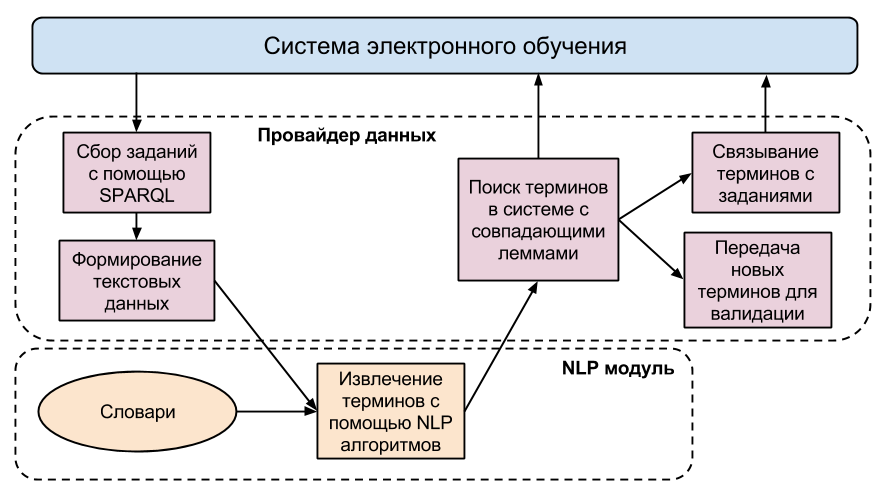
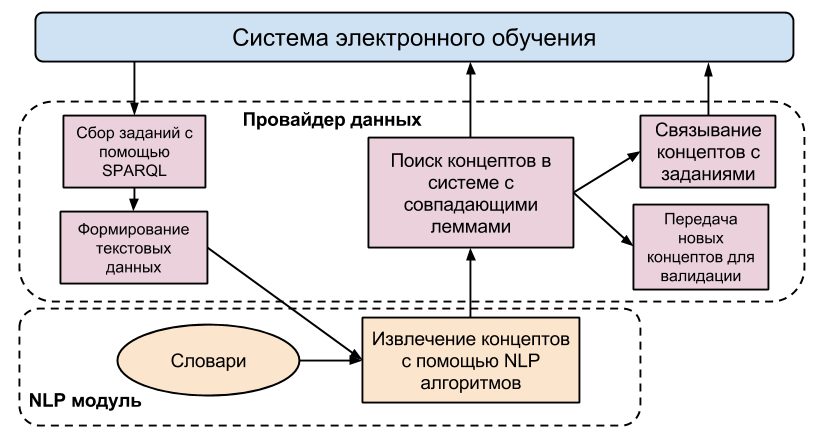
[+] part3 agregation. Done

Changed region(s): [[0.0, 0.0, 0.9964, 0.9706], [0.0, 0.2647, 0.0302, 0.6471]]

diff --git a/part3.tex b/part3.tex
@@ -1,54 +1,57 @@
-\chapter{Разработка методик наполнения и анализа образовательных данных в системе дистанционного обучения} \label{chapt3}
+\chapter{Разработка методик наполнения и анализа образовательных данных в системе электронного обучения} \label{chapt3}
 
 
 \section{Метод интеграции учебных материалов из сторонних источников семантических данных} 
 \label{sect3_1}
 
-Технологии Semantic Web и Linked Data позволяют использовать онтологии для хранения, сбора и распространения данных. Одним из преимуществ данных технологий является повторное использование данных. В Интернете существует множество открытых источников с данными, при описании которых были использованы онтологии верхнего уровня. Данные источники могут быть использованы для наполнения системы дистанционного обучения. Автоматизация и разработка методов наполнения онтологий является одной из главных задач в реализации механизмов поддержки учебных материалов в актуальном состоянии в системе дистанционного обучения.
+Технологии Semantic Web и Linked Data позволяют использовать онтологии для хранения, сбора и распространения данных. Одним из преимуществ данных технологий является повторное использование данных. В Интернете существует множество открытых источников с данными, при описании которых были использованы онтологии верхнего уровня. Данные источники могут быть использованы для наполнения системы электронного обучения. Автоматизация и разработка методов наполнения онтологий является одной из главных задач в реализации механизмов поддержки учебных материалов в актуальном состоянии в системе электронного обучения.
 
-Для сбора данных в формате RDF в системе ECOLE используются провайдеры данных. Провайдеры данных поддерживают автоматическое обновление связных данных из сторонних источников. Провайдеры позволяют преобразовывать структурированные данных различных форматов в формат RDF. Каждый провайдер обладает своим контекстом для дальнейшего управления собранными данными. 
+В разработанном методе для сбора данных в формате RDF в системе электронного обучения используются провайдеры данных. Провайдеры данных - это программные автономные модули, поддерживающие  автоматическое обновление связных данных хранилища системы из сторонних источников. Провайдеры позволяют преобразовывать структурированные данных различных форматов в формат RDF. Каждый провайдер обладает своим контекстом для дальнейшего управления собранными данными. Система электронного обучения использует связанные данные из хранилища для предоставления пользователям учебных материалов.
 
-С помощью провайдеров данных система ECOLE наполняет онтологии учебных материалов и тестов. Система производит сбор данных из электронных библиотек. Одной из таких библиотек является The British National Bibliography(BNB). BNB предоставляет открытый доступ к библиографической информации в формате RDF. Библиографические данные описываются с помощью онтологии верхнего уровня BIBO. Система ECOLE собирает информацию о книгах и публикациях из BNB и предоставляет возможность преподавателям связывать их курсы с объектами BNB используя свойство «hasResource».
+С помощью провайдеров данных система электронного обучения  наполняет онтологии учебных материалов и тестов. Система производит сбор данных из электронных библиотек. Одним из примеров использования разработанного метода является сбор данных системой электронного обучения из библиотеки The British National Bibliography(BNB). BNB предоставляет открытый доступ к библиографической информации в формате RDF. Библиографические данные описываются с помощью онтологии верхнего уровня BIBO и прочих опубликованных в сети прикладных онтологий. Система элеткронного обучения собирает информацию о книгах и публикациях из BNB и предоставляет возможность преподавателям и авторам  связывать электронные курсы с объектами BNB используя свойство <<hasResource>> онтологии учебных материалов.
 
-Система ECOLE позволяет задавать определения для предметных терминов. Одним из способов автоматизации наполнения онтологии терминов является использование внешней базы знаний. В системе ECOLE в качестве такой базы знаний используется DBpedia. DBpedia предоставляет точку доступа SPARQL для получения информации, которая была извлечена из Wikipedia. Провайдер данных автоматически создает определения для предметных терминов используя запросы к точке доступа SPARQL.
+С помощью разработанного метода система электронного обучения позволяет задавать определения для концептов предметных областей. Одним из способов автоматизации наполнения онтологии концептов и предметных областей является использование внешней базы знаний или таксономии. В качестве такой базы знаний в ситеме электронного обучения может быть использована база знаний DBpedia. DBpedia предоставляет точку доступа SPARQL для получения информации, которая была извлечена из Wikipedia. Провайдер данных автоматически создает определения для концептов предметной области используя запросы к точке доступа SPARQL. Для минимизации неоднозначности значения концептов при произведении запросов провайдером к точке доступа SPARQL в запросах используеться дополнительная фильтрация по категориям относящимся к предметной области концепта. 
 
-Множество источников в Интернете хранят структурированные данные не в формате RDF. Тесты и учебные материалы университета могут хранится в формате XML, а электронная библиотека предоставлять информацию о публикациях через REST API. Система ECOLE использует алгоритмы конвертации данных в провайдерах для интеграции структурированных данных в онтологии системы.
-
-
+Разработанный метод поддерживает ручное связывание концепта предметной области в системе электронного обучения с объектом базы знаний. Для этого у выбранного концепта создается свойство <<owl:saneAs>> с URI объекта внешней базы знаний. В дальнейшем провайдер автоматически подгружает актуальную информацию о концепте предметной области из внешних источников.
 
 
 \section{Метод преобразования структурированных учебных материалов в семантический формат} \label{sect3_2}
 
-%%%%%%%%%%%%%%%%%%%%%%%%%%%%%%%%%%%%%%%%%%%%%%%%%%
+Множество источников в Интернете хранят структурированные данные не в формате RDF. Тесты и учебные материалы университета могут хранится в формате XML, а электронная библиотека предоставлять информацию о публикациях через REST API. Разработанный метод агрегации данных в структурированных форматах предлагает использовать алгоритмы конвертации данных в провайдерах для интеграции структурированных данных в онтологии системы.
 
-%%%%%         TODO
+Портал учебных изданий Университета ИТМО предоставляет доступ к информации о публикациях используя точку доступа REST API. Разработанный метод использует предопределенные разработчиком Groovy скрипты при обработке данных в провайдере для преобразования данных из REST API в RDF триплеты. В ходе преобразования могут быть использованы внешние и внутренние словари и онтологии для аннотирования полученных данных. В примере с учебными изданиями может быть использованно аннотирование данных с помощью онтологии BIBO для сохранения информации о публикациях и книгах. 
 
-%%%%%%%%%%%%%%%%%%%%%%%%%%%%%%%%%%%%%%%%%%%%%%%%%%
+Другим распрастранненым методом хранения и передачи учебных материалов в электронных курсах является передача данных в формате XML. Для преобразования учебных материалов из XML формата в формат RDF необходимо описать отображение данных. Отображение описывается в формате XML в виде специальных правил задающих соотношение между данными в элементах и атрибутах XML и онтологическими индивидами и свойствами. Описанное отображение передается в провайдер, разработанный для обработки XML данных. Далее провайдер на основе описанного отображения и указаных внешних источников производит сбор и конвертацию в семантических формат учебных материалов в формате XML. Провайдер использует функции XPath для извлечения информации об объектах и их свойствах из XML данных. Извлеченная информация преобразовывается в RDF/XML формат и аннотируется с помощью установленных онтологий на основе описанного отображения. Аггрегация данных производится в автоматическом режиме с заданной периодичностью, что позволяет автоматически актуализировать учебные материалы.
+
+Одним из примеров применения данного метода является агрегация тестов электронных курсов из открытого хранилища учебных материалов ИТМО. Скрипт производит сбор и формирование XML файлов с тестами из открытого хранилища. Далее провайдер на основе описанного отображения преобразовывает и сохраняет данные в семантическое хранилище. В приложении \ref{APP_B_XML_MAP} описан пример отображения и результаты работы провайдера при преобразовании тестов в формате XML в семантических формат.
+
+Таким образом система электронного обучения с использованием семантических технологий может агрегировать и интегрировать книги, публикации, тесты и прочие учебные материалы опубликованные в структурированном формате на внешних источниках. Интеграция учебных материалов в систему электронного обучения основанную на семантических технологиях позволяет преподавателям и авторам использовать в своих электронных курсах готовые учебные материалы из сторонних источников.  
+
 
 \section{Использование алгоритмов обработки естественного языка для создания связей в онтологиях} \label{sect3_3}
 
-Для наполнения онтологий системы можно использовать не только данные внешних источников, но и данные самой системы. Данные хранящиеся в онтологии системы и связанные семантическими связями позволяют создавать новые связи на основе предопределенных правил. Одним из методов связывания данных онтологии является применение алгоритмов обработки естественного языка NLP (Natural Language Processing). Используя данный подход можно извлекать семантические связи из текстовой информации объекта онтологии. Система ECOLE использует NLP алгоритмы для поиска предметных терминов в текстах заданий тестов.
+Для наполнения онтологий системы можно использовать не только данные внешних источников, но и данные самой системы. Данные хранящиеся в онтологии системы и связанные семантическими связями позволяют создавать новые связи на основе предопределенных правил. Одним из методов связывания данных онтологии является применение алгоритмов обработки естественного языка NLP (Natural Language Processing). Используя данный подход можно извлекать семантические связи из текстовой информации объекта онтологии. Разработанный метод позволяет системам электронного обучения на основе семантических технологий, использовать NLP алгоритмы для поиска концепты предметных областей в текстах заданий тестов.
 
-Учитывая небольшой размер образца и предустановленный набор терминов,  шаблоны POS-tag в совместном использовании с синтаксическими шаблонами являются наиболее предпочтительным методом извлечения предметных терминов из заданий тестов[11][12][13]. Около десяти типичных составных шаблонов предметных терминов было использовано для извлечения терминов-кандидатов.  После извлечения термины-кандидаты приводились к канонической форме с использованием предустановленных словарей.
+Учитывая небольшой размер образца и предустановленный набор концептов, шаблоны POS-tag в совместном использовании с синтаксическими шаблонами являются наиболее предпочтительным методом извлечения концептов предметных областей из заданий тестов \cite{hulth2003improved} \cite{khokhlova2012lexico} \cite{bolsh2007lexico}. Около десяти типичных составных шаблонов концептов было использовано для извлечения концептов-кандидатов.  После извлечения концепты-кандидаты приводились к канонической форме с использованием предустановленных словарей.
 
-Для извлечения терминов была использована лингвистическая платформа NooJ[14]. NooJ обладает мощным механизмом регулярных выражений поиска, позволяющим комбинировать различные POS-tag шаблоны в единую грамматику для запроса к тексту. Для обработки русскоязычного текста авторами статьи был разработан набор грамматик и словарей. Данные словари и грамматики полностью покрывают словарь заданий теста. Для генерации словарей и грамматик для англоязычных ресурсов были использованы стандартные средства NooJ. Несколько деривационных парадигм было описано с помощью преобразователей NooJ и связано с лексическими сущностями. Применение деривационных парадигм позволяет генерировать основные леммы для лексических сущностей. Алгоритм извлечения предметных терминов из текста с использованием платформы NooJ состоит из следующих шагов:
+Для извлечения концептов предметных областей была использована лингвистическая платформа NooJ \cite{silberztein2002nooj}. NooJ обладает мощным механизмом регулярных выражений поиска, позволяющим комбинировать различные POS-tag шаблоны в единую грамматику для запроса к тексту. Для обработки русскоязычного текста был разработан набор грамматик и словарей. Данные словари и грамматики полностью покрывают словарь заданий теста. Для генерации словарей и грамматик для англоязычных ресурсов были использованы стандартные средства NooJ. Несколько деривационных парадигм было описано с помощью преобразователей NooJ и связано с лексическими сущностями. Применение деривационных парадигм позволяет генерировать основные леммы для лексических сущностей. Алгоритм извлечения концептов предметных областей из текста с использованием платформы NooJ состоит из следующих шагов:
 
 \begin{itemize}
 \item тест задания подгружается в платформу NooJ, что приводит к его лингвистическому анализу, используя разработанные словари;
 \item в результате анализа платформа NooJ формирует текст с аннотациями, содержащими морфологическую и семантическую информацию о каждом слове;
-\item применяя запросы на основе POS-tag шаблонов, платформа NooJ формирует список терминов-кандидатов.
+\item применяя запросы на основе POS-tag шаблонов, платформа NooJ формирует список концептов-кандидатов.
 \end{itemize}
 
-Для применения алгоритма в других предметных областях и на других языках необходимо сформировать соответствующие словари, грамматики и шаблоны извлечения предметных терминов.
+Для применения алгоритма в других предметных областях и на других языках необходимо сформировать соответствующие словари, грамматики и шаблоны извлечения концептов предметных областей.
 
-Для связывания терминов-кандидатов с предметными терминами системы с помощью лемм, термины системы должны пройти лемматизацию. Каждый предметный термин системы обладает свойством-значением <<lemma>>. Предметный термин системы хранит в данном свойстве все свои леммы.
+Для связывания концептов-кандидатов с концептов предметных областей системы с помощью лемм, концепты системы должны пройти лемматизацию. Каждый концепт системы обладает свойством-значением <<lemma>>. Концепт предметной области в  системе хранит в данном свойстве все свои леммы.
 
-Для реализации алгоритма связывания заданий тестов и предметных терминов был разработан провайдер данных. Провайдер принимает на вход ссылку на объект курса и производит создание ссылок между заданиями и терминами. Общий алгоритм работы провайдера данных представлен на рисунке \ref{img:nlp_main_alg}.
+Для реализации алгоритма связывания заданий тестов и концептов предметных областей был разработан провайдер данных. Провайдер принимает на вход ссылку на объект курса и производит создание ссылок между заданиями и концептами. Общий алгоритм работы провайдера данных представлен на рисунке \ref{img:nlp_main_alg}.
 
 \begin{figure} [h] 
   \center
   \includegraphics [scale=0.5] {nlp_main_alg}
-\caption{Алгоритм работы провайдера извлечения терминов с использованием NLP алгоритмов.}
+\caption{Алгоритм работы провайдера извлечения концептов с использованием NLP алгоритмов.}
   \label{img:nlp_main_alg}  
 \end{figure}
 
@@ -58,19 +61,19 @@
 \item провайдер собирает список заданий курса, используя запросы SPARQL;
 \item происходит формирование текстовых данных для каждого задания, используя информацию о вопросах и ответах;
 \item провайдер данных запускает NLP алгоритмы в платформе NooJ для текстовых данных каждого задания;
-\item провайдер формирует список терминов-кандидатов содержащих каноническую форму и набор лемм;
-\item производится поиск предметных терминов в системе с совпадающими наборами лемм для дальнейшего связывания с терминами кандидатами;
-\item провайдер создает связи между найденными предметными терминами системы и заданиями терминов-кандидатов с помощью объектного свойства <<hasTerm>>.
+\item провайдер формирует список концептов-кандидатов содержащих каноническую форму и набор лемм;
+\item производится поиск концептов предметной области в системе с совпадающими наборами лемм для дальнейшего связывания с концептами-кандидатами;
+\item провайдер создает связи между найденными концептами  предметной области системы и заданиями концептов-кандидатов с помощью объектного свойства <<hasTerm>>.
 \end{itemize}
 
-Термины-кандидаты, для которых не были найдены соответствующие предметные термины системы, могут быть записаны в онтологию, как новые предметные термины системы. Перед записью в онтологию провайдер производит проверку термина-кандидата на соответствие предметному термину. Для проверки используются запросы к базе знаний DBpedia. В случае совпадения названия термина-кандидата со свойствами <<rdfs:label>> или <<dbpedia-owl:wikiPageRedirects>> объекта из Dbpedia, в онтологии системы создается новый предметный термин на основе термина-кандидата и производится связывание с заданиями теста. При отсутствии совпадений термин-кандидат помечается провайдером данных как ложный термин. При SPARQL запросах к базе знаний DBpedia используется фильтрация по предметным областям и категориям с помощью свойства <<dcterms:subject>>.
+Концепты-кандидаты, для которых не были найдены соответствующие концепты предметной области системы, могут быть записаны в онтологию, как новые концепты предметной области системы. Перед записью в онтологию провайдер производит проверку концепта-кандидата на соответствие концепту предметной области. Для проверки используются запросы к базе знаний DBpedia. В случае совпадения названия концепта-кандидата со свойствами <<rdfs:label>> или <<dbpedia-owl:wikiPageRedirects>> объекта из Dbpedia, в онтологии системы создается новый концепт предметной области на основе концепта-кандидата и производится связывание с заданиями теста. При отсутствии совпадений концепт-кандидат помечается провайдером данных как ложный концепт. При SPARQL запросах к базе знаний DBpedia используется фильтрация по предметным областям и категориям с помощью свойства <<dcterms:subject>>.
 
-Данная фильтрация позволяет избежать ошибочных совпадений терминов-кандидатов с терминами из сторонних предметных областей. Проверка считается успешной в случае одного или более найденных совпадений для термина-кандидата. Для включения нового термина в систему необходима верификация преподавателя или администратора системы. Алгоритм проверки терминов-кандидатов представлен на рисунке \ref{img:nlp_check_alg}.
+Данная фильтрация позволяет избежать ошибочных совпадений концептов-кандидатов с концептами из сторонних предметных областей. Проверка считается успешной в случае одного или более найденных совпадений для концепта-кандидата. Для включения нового концепта в систему необходима верификация преподавателя или администратора системы. Алгоритм проверки концептов-кандидатов представлен на рисунке \ref{img:nlp_check_alg}.
 
 \begin{figure} [h] 
   \center
   \includegraphics [scale=0.5] {nlp_check_alg}
-\caption{Алгоритм проверки новых терминов-кандидатов.}
+\caption{Алгоритм проверки новых концептов-кандидатов.}
   \label{img:nlp_check_alg}  
 \end{figure}
 

diff --git a/part2.tex b/part2.tex
@@ -94,6 +94,33 @@ The Ontology for Media Resources (MA-ONT) является онтологией 
 
 Косвенное связывание в онтологии учебных материалов позволяет оценивать покрытие тестами лекций электронного курса. С помощью использования косвенного связывания появляется возможность на основе анализа связей подбирать реллевантный учебный материал и находить похожие по содержанию электронные курсы. Подробный пример косвенного связывания тестов, лекций и курсов прдеставлен в приложении \ref{APP_A_EXMPL}.   
 
+Ондной из задач технологии Linked Data является поддержка связей и отношений между различными наборами данных и источниками, использующими различные онтологии. Для семантической интеграции данных в онтологию учебных материалов было произведено отражение онтологий. Отображение онтологий — это процесс установления соответствий между понятиями нескольких онтологий. Отражение онтологий в разрабатываемой онтологии позволяет увеличить количество систем и ресурсов, поддерживающих данную онтологию.
+
+Одним из опубликованных и релевантных словарей для описания учебных материалов является онтология TEACH (Teaching Core Vocabulary) \cite{kauppinen2012teaching}. TEACH облегченный словарь позволяющий преподавателям связывать объекты электронных курсов. Данный словарь был выбран для реализации отражения онтологии в онтологии учебных материалов.
+
+Отрожение онтологий производилось вручную на основе спецификации словоря TEACH. Эквивалентные классы двух онтологий связывались друг с другом с помощью свойства <<owl:equivalentClass>>. Эквивалентные свойства двух онтологий связывались друг с другом с помощью свойства <<owl:equivalentProperty>>.
+
+Результаты отображения онтологии TEACH в онтологии учебных материалов представлены в таблице \ref{table:teach_mapping}. 
+
+\begin{table}[ht]
+\centering
+\caption{Результаты отображения онтологии TEACH в онтологии учебных материалов.}
+\label{table:teach_mapping}
+\setlength{\tabcolsep}{10pt} 
+\renewcommand{\arraystretch}{1.5} 
+\begin{tabular}{ |c|c|  }
+\hline Онтология учебных материалов  &  Teaching Core Vocabulary  \\
+\hline \hline \multicolumn{2}{|c|}{Классы} \\ 
+\hline aiiso:Course & teach:Course \\
+\hline Resource & teach:Material \\
+\hline Lecture & teach:Lecture \\
+\hline \hline \multicolumn{2}{|c|}{Свойства} \\ 
+\hline hasTeacher & teach:teacher \\
+\hline isTeacherOf & teach:teacherOf \\
+
+\hline
+\end{tabular}
+\end{table}
 
 \section{Онтология тестов} \label{sect2_3}
 

diff --git a/appendix.tex b/appendix.tex
@@ -56,3 +56,71 @@
 
 \clearpage
 
+\chapter{Результаты преобразования на основе отображения данных в формате XML в семантический формат} \label{APP_B_XML_MAP}
+
+
+\begin{table}[h!]
+\centering
+\caption{Результаты преобразования на основе отображения учебного теста в формате XML в семантический формат}
+\label{table:1}
+
+\begin{tabular}{ |c|  }
+  \hline
+ \textbf{Исходные данные в XML коде}
+ \\
+ \hline
+ \begin{lstlisting}
+<test module="m_InterferenceAndCoherence" 
+    module_ns="Phisics"
+    uri="TestOfInterferenceAndDiffractionFrenel" 
+    name="Test Of Interference And Diffraction Frenel">
+</test>
+ \end{lstlisting}
+ \\
+ \hline
+  \textbf{Код отображения}
+  \\
+  \hline
+\begin{lstlisting}
+<rule id="test" nodeBase="//test" 
+    owlType="learningRu:Test" 
+    instanceNamespace="openeduTests"
+    objectId="{./@uri}" 
+    objectLabel="{./@name}">
+    <objectPropertyMapping nodeBase="." 
+        instanceNamespace="openeduTests"
+        value="{./@name}" 
+        owlProperty="ifmotest:hasGroupOfTasks" 
+        referredRule="task_group" />
+</rule>
+\end{lstlisting}
+    \\
+ \hline
+\textbf{Результат в RDF/XML коде}
+\\
+  \hline
+  \begin{lstlisting}
+<rdf:Description 
+    rdf:about="http://openedu.ifmo.ru/tests/
+    TestOfInterferenceAndDiffractionFrenel">
+  <rdf:type 
+    rdf:resource="http://www.semanticweb.org/
+    k0shk/ontologies/2013/5/learning#Test"/>
+  <label xmlns="http://www.w3.org/2000/01/rdf-schema#">
+    Test Of Interference And Diffraction Frenel
+  </label>
+  <hasGroupOfTasks 
+    xmlns="http://www.semanticweb.org/
+    fedulity/ontologies/2014/4/untitled-ontology-13#" 
+    rdf:resource="http://openedu.ifmo.ru/tests/
+    Test_Of_Interference_And_Diffraction_Frenel"/>
+</rdf:Description>
+\end{lstlisting}
+
+\\
+ \hline
+\end{tabular}
+
+\end{table}
+
+\clearpage

diff --git a/packages.tex b/packages.tex
@@ -54,3 +54,6 @@
 
 %%% Колонтитулы %%%
 \usepackage{fancyhdr}
+
+
+\usepackage{listings}
